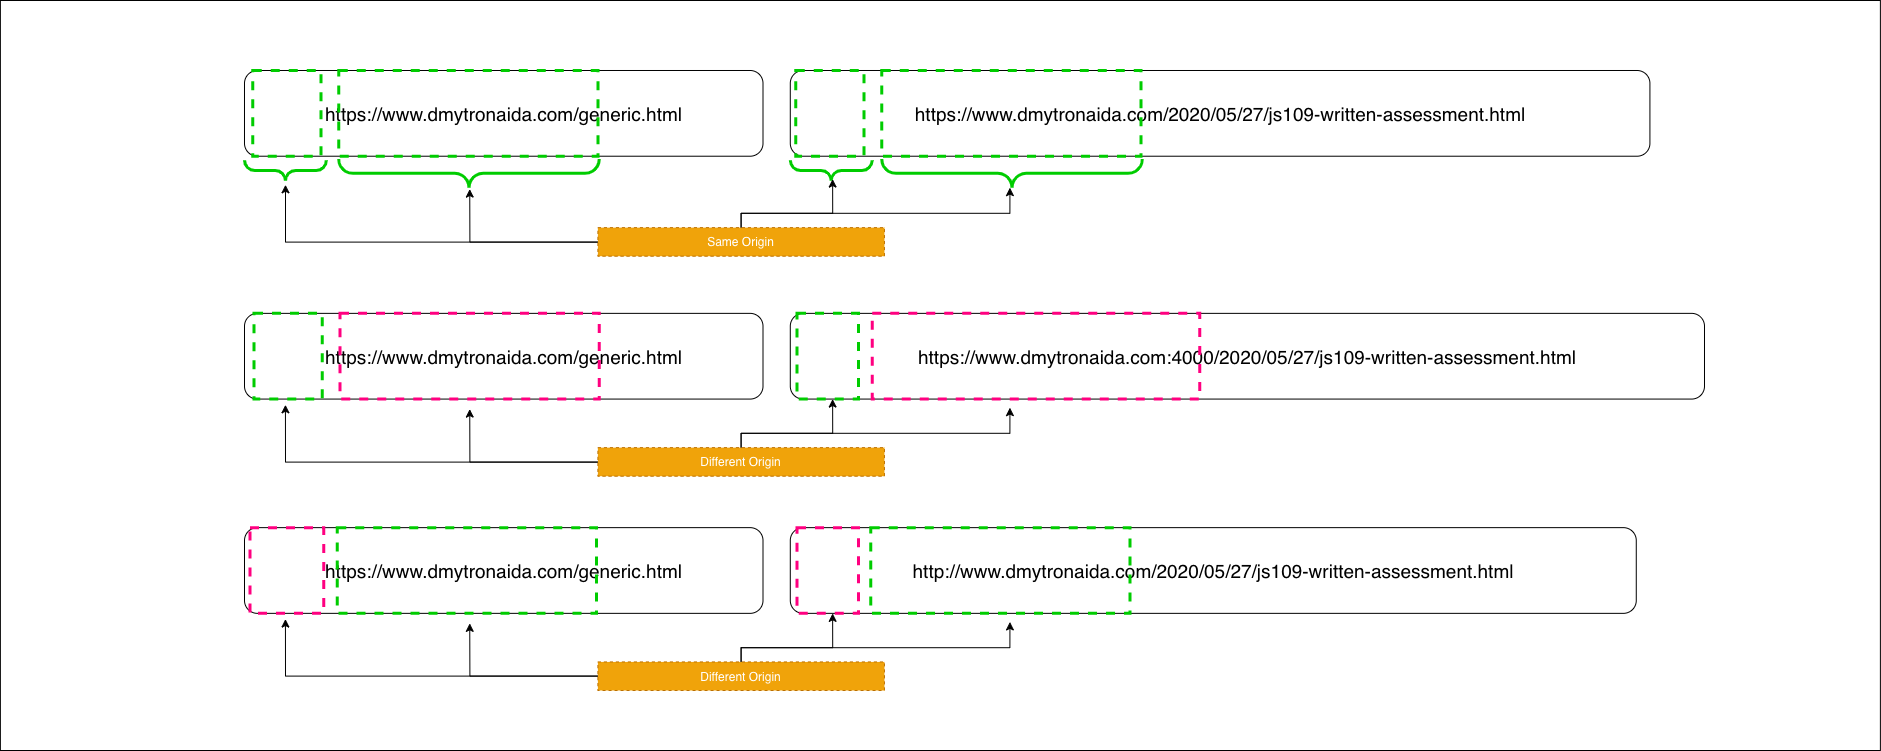
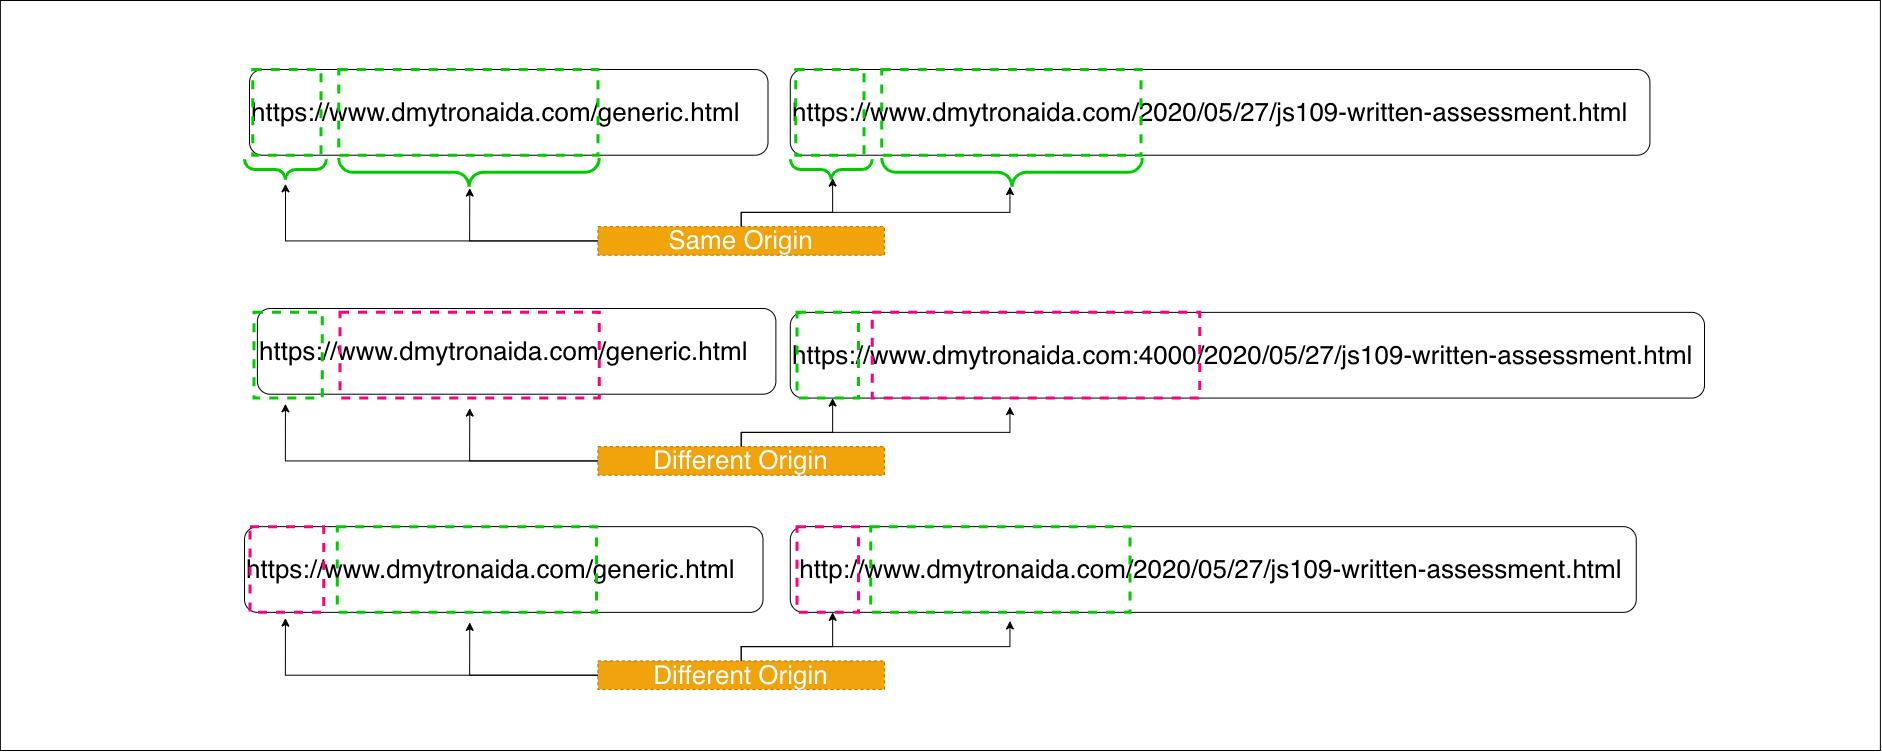
Updated layered system part of the post and updated the diagram image exports.

diff --git a/_posts/2020-11-06-how-does-internet-work.md b/_posts/2020-11-06-how-does-internet-work.md
@@ -87,7 +87,44 @@ The [Internet Protocol Suite](https://en.wikipedia.org/wiki/Internet_protocol_su
 3. Internet
 4. Link
 
-The general idea of data transfer from level to level stays the same: protocol of the lower layer hides all the data it receives from the layer above within the data payload and adds some protocol specific header. The data payload and the headers form a Protocol Data Unit (PDU)
+The general idea of data transfer from level to level stays the same: protocol of the lower layer hides all the data it receives from the layer above within the data payload and adds some protocol specific header. The data payload and the headers form a Protocol Data Unit (PDU).
+
+For example, the IP layered system would look something in following lines:
+![ip-layered-system](/assets/images/layered-system-ip-model.png)
+
+
+#### Application Layer
+> - most commonly used protocol is HTTP (hypertext transfer protocol)
+> - mainly concernted with the client-server communication
+> - PDU is called an HTTP request / response
+>   - HTTP *request* is required to have:
+>     - request line: HTTP method, HTTP version, path
+>     - `Host` header 
+>     - optionally can also include other header data and message body
+>   - HTTP *response* is required to have:
+>     - response line: status code / text
+>     - response headers and message body are optional 
+
+#### Transport Layer ⬆
+> - most commonly used protocols TCP and UDP
+> - mainly concerned with the communication between different application processes
+> - TCP's PDU is called TCP **Segment**
+>   - Headers contain source and destination socket (combination of IP address and a port number), connection status flags, etc.
+>   - Data payload contains the data from the layers above
+
+#### Internet Layer ⬆
+> - most common uses IP protocol
+> - mainly concerns itself with inter-network communication between devices via the use of IP addressing
+> - PDU is called an IP **Packet**
+>   - Headers contain the source and destination IP addresses
+>   - Data payload contains the data from the layers above
+
+#### Link layer ⬆
+> - most commonly uses Ethernet protocol 
+> - mainly concerns itself with local-network communication between devices via MAC (media access control) addressing
+> - PDU is called an Ethernet **Frame**
+>   - Headers contain source and destination MAC addresses
+>   - Data payload contains the data from the layers above
 
 ## Link Layer
 
@@ -162,7 +199,9 @@ How does the browser know the IP address of the website? It needs some kind of &
 
 Domain Name System (DNS) associates names like [www.google.com](http://www.google.com/) with corresponding IP addresses.
 
-Here&#39;s a cool video from Code.org explaining how the DNS works: [https://youtu.be/MwxMsaFFycg?t=250](https://youtu.be/MwxMsaFFycg?t=250)
+Here&#39;s a cool video from Code.org explaining how the DNS works:
+<iframe width="560" height="315" src="https://www.youtube.com/embed/MwxMsaFFycg" frameborder="0" allow="accelerometer; autoplay; clipboard-write; encrypted-media; gyroscope; picture-in-picture" allowfullscreen></iframe>
+
 
 # Transport Layer
 
